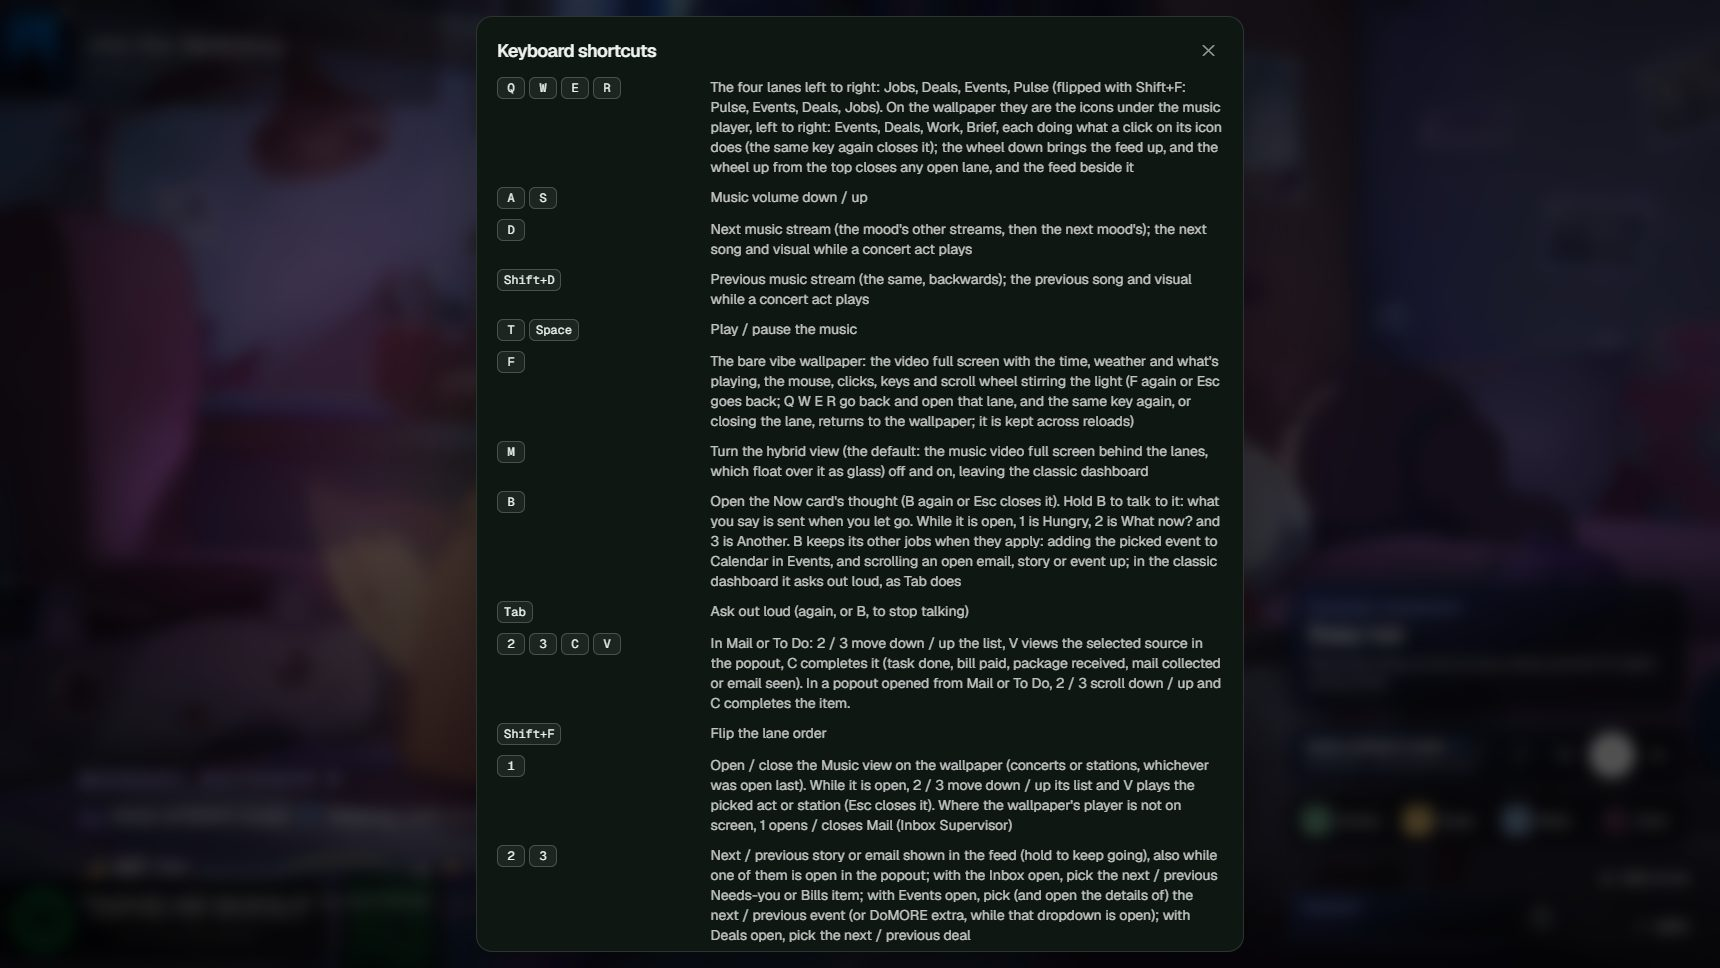
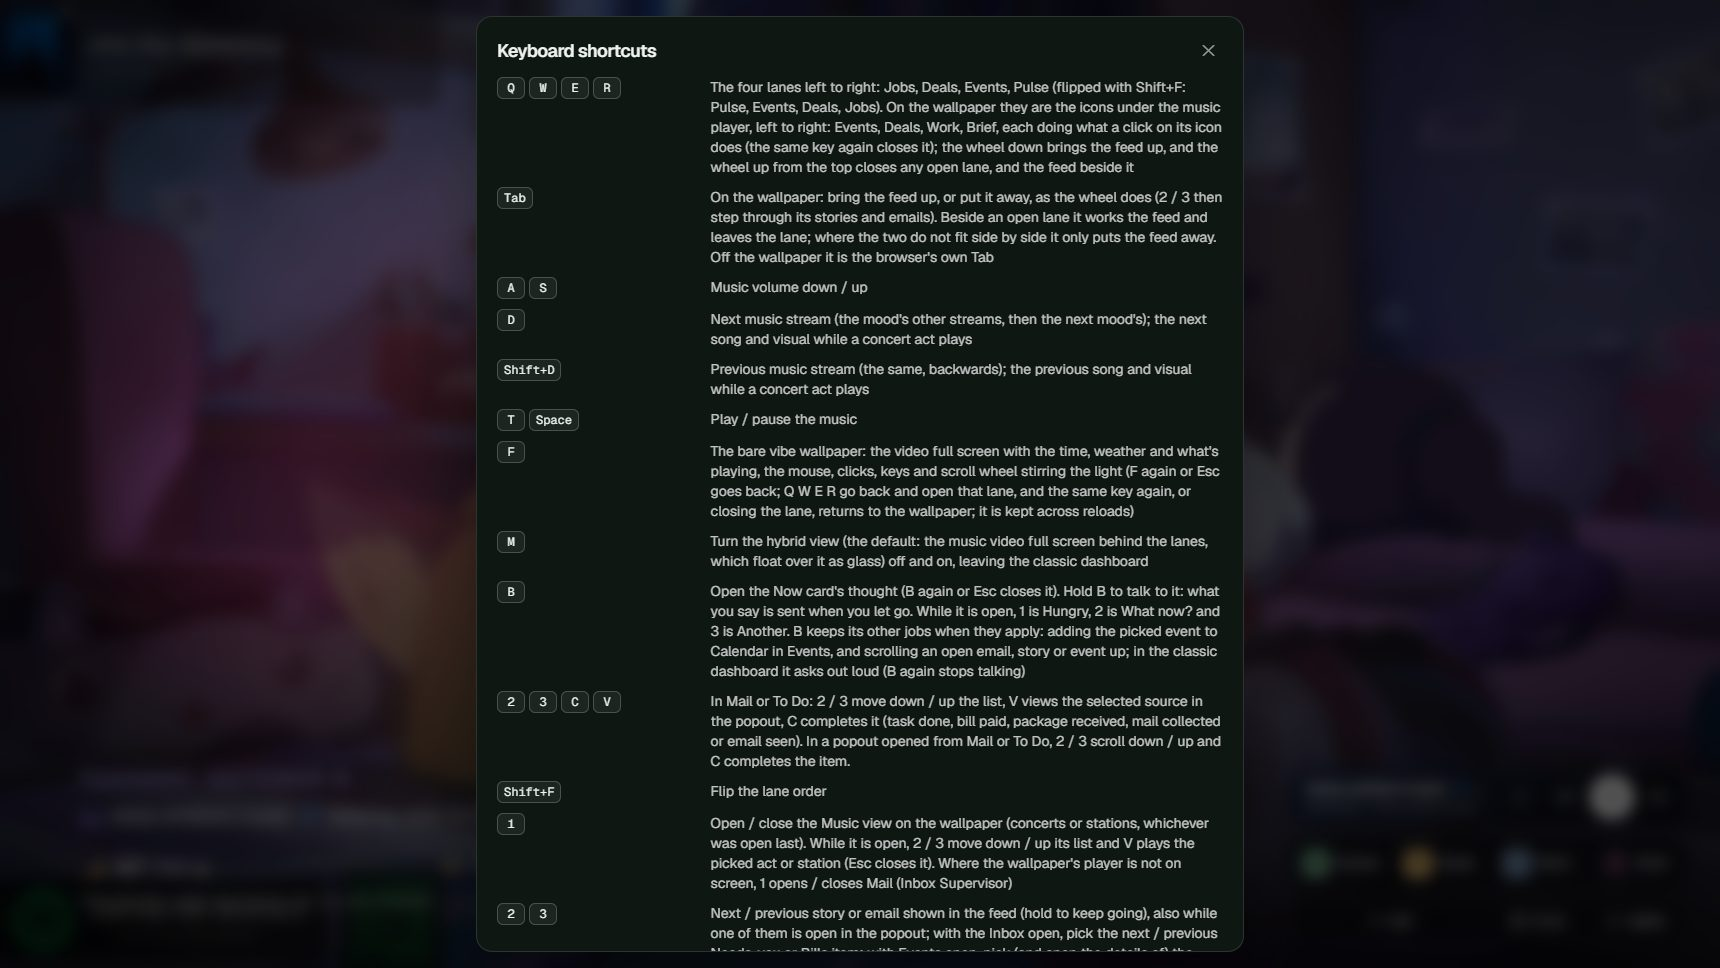
README: catch up with the app (5545bff), 1 picture (#9)

diff --git a/README.md b/README.md
@@ -1,7 +1,7 @@
 # Pulse Ops
 
 Pulse Ops was formerly named **Levi Ops**. This repository is the sanitized public mirror. This README describes
-the app as it runs today (2026-10-05); the code in this mirror is an older sanitized snapshot, so files the text names
+the app as it runs today (2026-10-06); the code in this mirror is an older sanitized snapshot, so files the text names
 may be missing here, and hostnames, user paths and account identifiers are replaced with placeholders.
 
 For ongoing work with ChatGPT or Codex, follow [AGENTS.md](AGENTS.md).
@@ -44,7 +44,7 @@ pane beside it, and Esc puts everything away.
 
 ![Wheel down brings the feed in, Q opens Events, W swaps to Deals, Esc returns to the wallpaper](docs/screenshots/wallpaper-feed-and-lanes.gif)
 
-**A story opens in place.** It grows out of the feed's lane, V and B scroll it, and Esc shrinks it back.
+**A story opens in place.** It grows out of the feed's lane, V and B scroll it, and Esc shrinks it back. C does too, and marks it read.
 
 ![A story opened from the feed grows out of the lane, scrolls, and closes back into the lane](docs/screenshots/feed-story.gif)
 
@@ -130,8 +130,8 @@ the other side of the desk; the choice is kept per screen.
 On the wallpaper (1200 px or wider) the lanes are a row of icons under the music player: Events, Deals, Work and
 **Brief**, which opens the daily briefing over the Now card. An icon or its key opens the lane as one pane over the
 wallpaper. The same icon or key closes it, another one swaps it, and Esc or the mouse's Back button closes it. Wheel
-down anywhere on the wallpaper slides the feed into the middle of the screen; wheel up from its top, or Esc, slides it
-back out. From 1700 px the clock stays beside the feed, and an open lane sits between the feed (docked at the left
+down anywhere on the wallpaper, or Tab, slides the feed into the middle of the screen; wheel up from its top, Tab again
+or Esc slides it back out. From 1700 px the clock stays beside the feed, and an open lane sits between the feed (docked at the left
 edge) and the Now column. Narrower than that, the lane takes the feed's place. Wheel up from the top closes an open
 lane and the feed beside it.
 
@@ -418,7 +418,8 @@ typing in a field or holding Ctrl, Alt or ⌘.
 
 | Keys | Does |
 |---|---|
-| Q W E R | The four lanes, left to right as laid out: Pulse, Events, Deals, Work on the primary monitor (Work, Deals, Events, Pulse on a screen laid out the other way; Shift+F switches). On the wallpaper the Pulse key brings the feed up and puts it away |
+| Q W E R | The four lanes, left to right as laid out: Pulse, Events, Deals, Work on the primary monitor (Work, Deals, Events, Pulse on a screen laid out the other way; Shift+F switches). On the wallpaper they are the icons under the music player as drawn: Events, Deals, Work, Brief |
+| Tab | On the wallpaper: bring the feed up or put it away, as the wheel does; 2 / 3 then step through it. Beside an open lane it works the feed and leaves the lane. Off the wallpaper it is the browser's own Tab |
 | A / S | Music volume down / up |
 | D | Next music stream (cycles Auto's picks for the current block); the next song and visual while a concert act plays |
 | Shift+D | Previous music stream, wrapping at the ends; the previous song and visual while a concert act plays |
@@ -426,8 +427,7 @@ typing in a field or holding Ctrl, Alt or ⌘.
 | F | Open / close the bare Vibe wallpaper; its setting survives reloads |
 | M | Switch the default hybrid view off / on |
 | Shift+F | Flip the lane order |
-| B | Open the Now card's thought (B again or Esc closes it); hold B to talk to it, sent when you let go; while open, 1 / 2 / 3 are Hungry / What now? / Another. With a reader or picked event, B keeps its job below; in the classic dashboard it asks out loud like Tab |
-| Tab | Ask the dashboard out loud; press Tab again to stop (`app/VoiceAsk.tsx`, Chrome/Edge speech-to-text + `/api/ask`) |
+| B | Open the Now card's thought (B again or Esc closes it); hold B to talk to it, sent when you let go; while open, 1 / 2 / 3 are Hungry / What now? / Another. With a reader or picked event, B keeps its job below; in the classic dashboard it asks out loud, and B again stops (`app/VoiceAsk.tsx`, Chrome/Edge speech-to-text + `/api/ask`) |
 | 1 | Open / close Mail (Inbox Supervisor), above Now |
 | 2 / 3 | Move down / up the active Mail or To Do list; scroll down / up inside the source popout. Elsewhere, step through the feed, the Inbox rows, the events (or DoMORE extras) or the deals, whichever is open |
 | 4 | Open / close To Do. With Events open: hide / show concerts |
@@ -437,7 +437,7 @@ typing in a field or holding Ctrl, Alt or ⌘.
 | 5, hold R | Read the daily briefing aloud from any view (again to stop). R held for half a second does it; a tap still does what R does there (its lane, or the Brief icon on the wallpaper) |
 | V / B | Scroll the open story or email down / up; hold for a steady glide. In Events, V on a picked concert plays the act's songs and pauses the music, V on any other event opens it in the reader, and B adds the picked event to Calendar. In Deals, V opens the picked deal's details or email. V opens a selected Mail or To Do row's source |
 | Shift+V / Shift+B, + / − | In an open email or story: zoom the text in / out (0 resets) |
-| C | Complete the selected Mail or To Do item, including from its source popout (email seen, mail collected, task done, bill paid, package received). Elsewhere, the one action for what is open or picked: mark the story read, unsubscribe from or dismiss the email, mark a task done, claim the picked DoMORE extra, hide the picked deal |
+| C | Complete the selected Mail or To Do item, including from its source popout (email seen, mail collected, task done, bill paid, package received). Elsewhere, the one action for what is open or picked: mark the story read and shrink it back into the feed, unsubscribe from or dismiss the email, mark a task done, claim the picked DoMORE extra, hide the picked deal |
 | H | Switch the Hue lights' music colours on at the remembered strength, then step through the modes (Dominant, Contrast, Breathe), then off |
 | J | While the lights have the video's colours: another pick of them (not in Breathe) |
 | Z / X | Dim / brighten the lit Hue rooms by 5 percentage points; hold to keep stepping |
@@ -640,7 +640,8 @@ and `&reset=1` starts over. The prompt and digest are in `app/askLevi.ts`; the p
 
 **Task "Ask Claude"** is the same as "Ask Pulse Ops" with these changes: Get Voice uses the Free Form language model, the
 URL is `/api/ask?format=text`, the Timeout is 45 s, the request only runs if `%VOICE Set`, and an optional *Task > Goto*
-loops back for another question. On the PC, **Tab** does the same from the page.
+loops back for another question. On the PC, **B** does the same from the classic dashboard; on the wallpaper it talks
+to the Now card instead.
 
 ## Claude connector (MCP)
 
